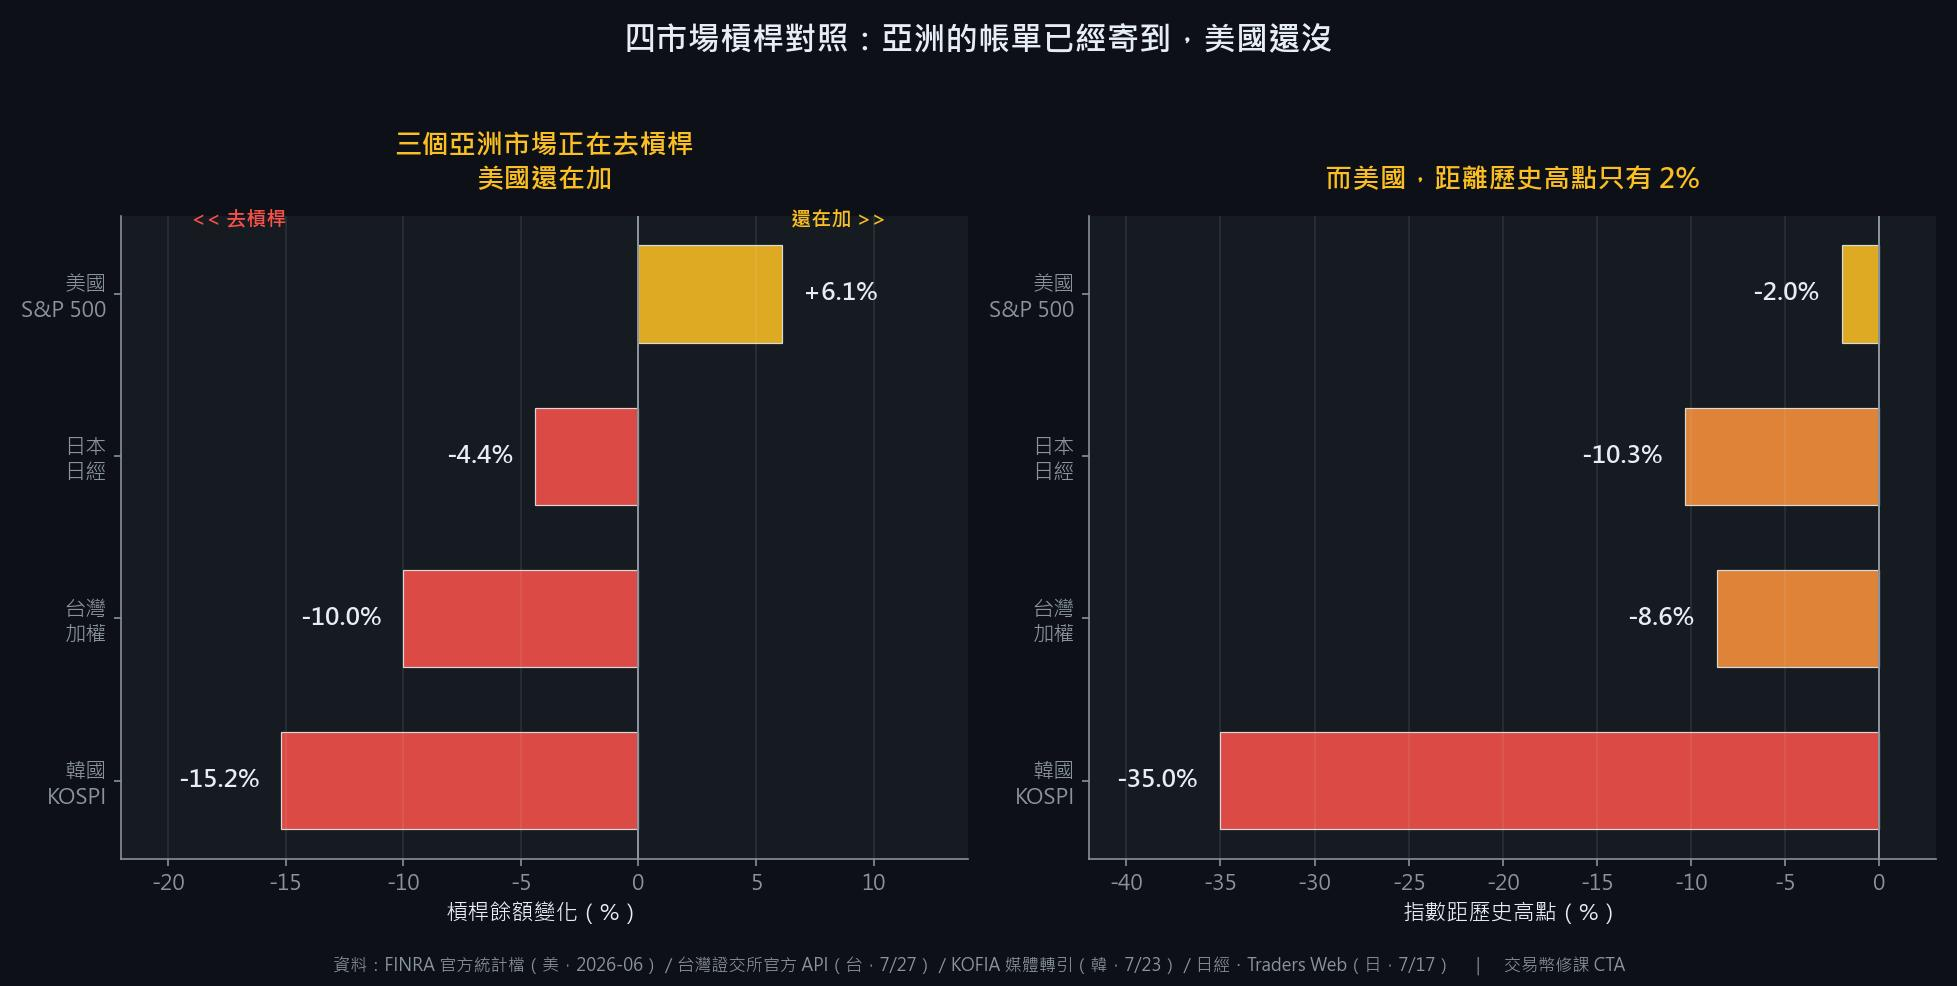
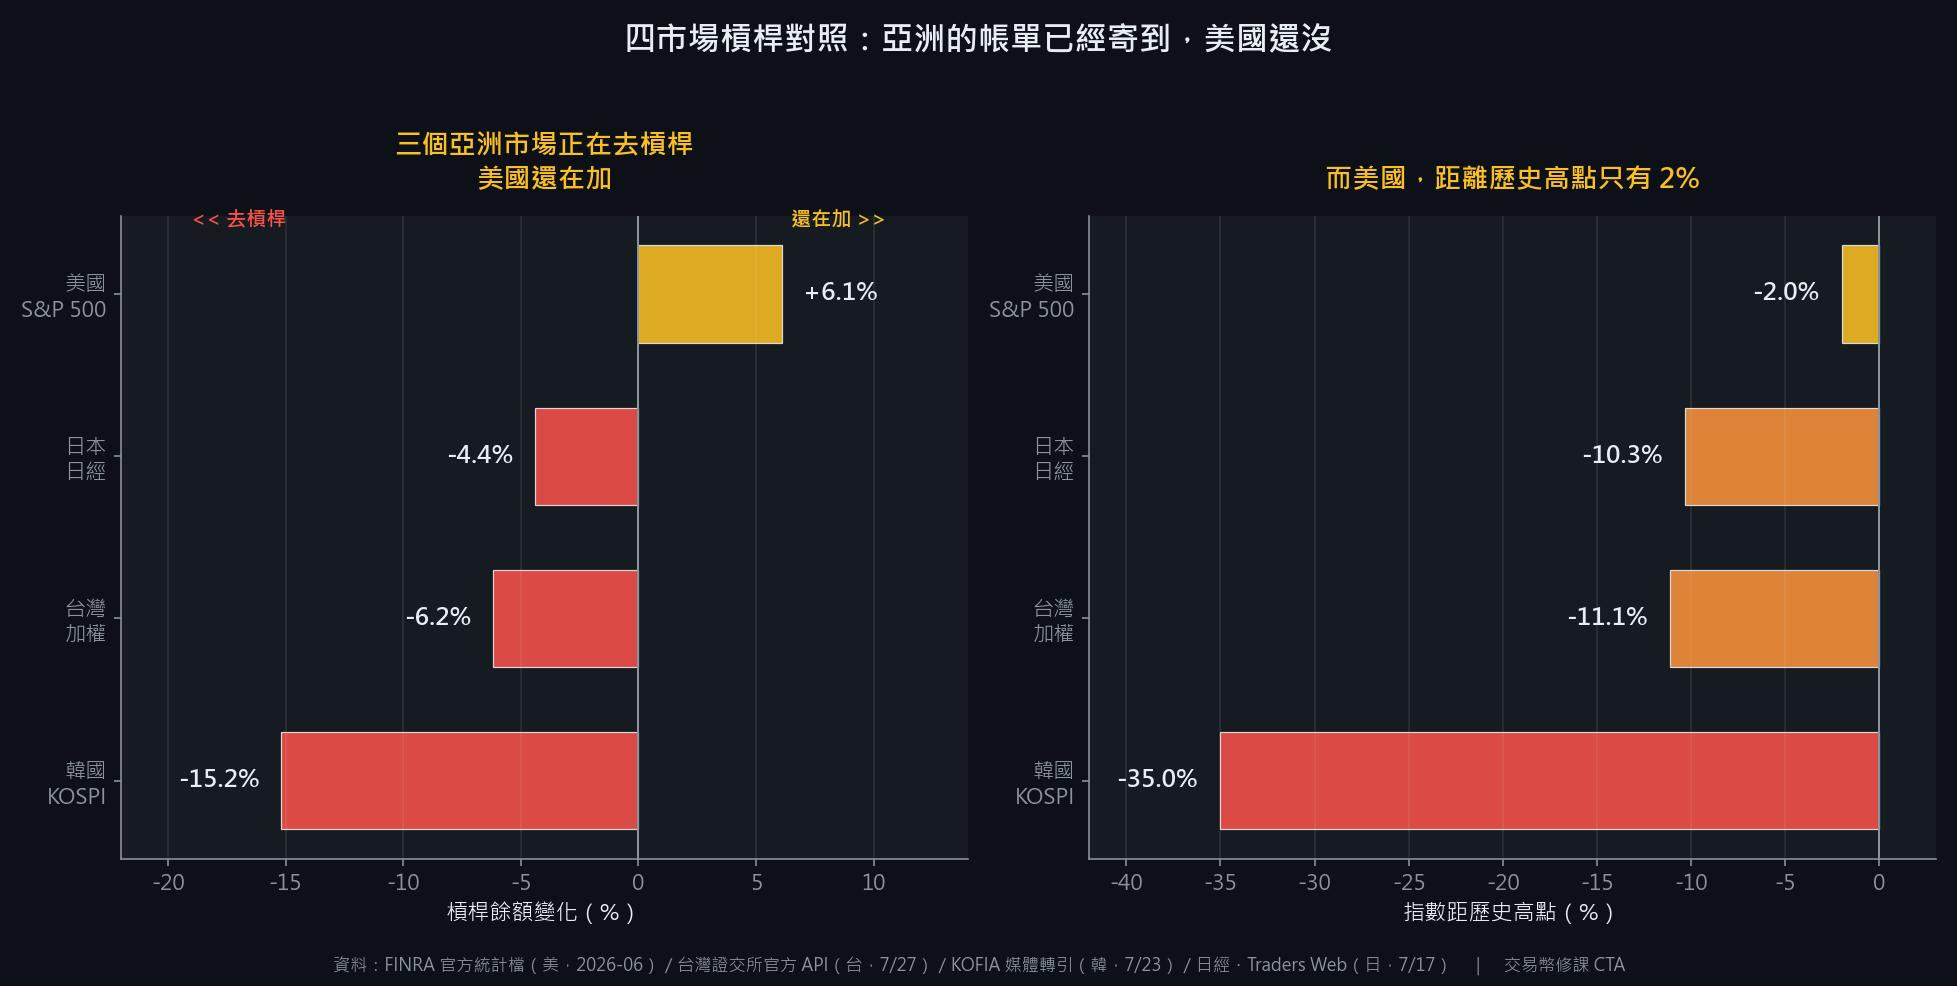
新增台股融資 vs 加權指數圖 + 修正台灣數據為證交所實抓值
★ 新圖 tw-margin-vs-taiex.jpg(自製,含 2026 放大鏡 inset)
資料:直接串接台灣證交所官方 API
  MI_MARGN 融資金額(上市) 128 筆 / FMTQIK 加權指數 2,003 個交易日
  期間 2018-01-02 ~ 2026-07-27

★ 實抓發現(比原稿更強的敘事):
  加權指數 6/22 見頂 47,742
  融資餘額 7/02 才見頂 6,208 億(上市) -> 晚 10 天
  => 指數已經轉頭,散戶還加碼了兩週(教科書級頭部行為)
  7/17 崩 2,953.71 點(-6.5%),維持率降至 148.34%
  7/20 指數探底 42,450 = 距高點 -11.1%
  7/23 融資降至 5,826 億(-6.2%)

★ 數據修正(原稿引用媒體報導,實抓後更精準):
  舊:融資 6/22 創紀錄 8,134.8 億(合計)/6,050.4 億(上市)
  新:6/22 是「首度突破 8,000 億」里程碑,非峰值;
     真正峰值為 7/02 上市 6,208 億(自行驗證)
  四市場表:台灣改為 6,208億(7/02) -> 5,826億(7/23,-6.2%),指數 -11.1%
  four-markets-leverage.jpg 同步更新(-10.0%->-6.2%, -8.6%->-11.1%)

★ 一致性檢查:舊數字 6,050.4/5,686.6/-8.61% 全數清除,
  8,134.8 僅保留一處作為「媒體里程碑 vs 實際峰值」的說明

Changed region(s): [[0.1559, 0.5781, 0.2805, 0.6998], [0.8104, 0.5781, 0.9039, 0.6998]]

diff --git a/blog/four-fuses-leverage-2026h2.html b/blog/four-fuses-leverage-2026h2.html
@@ -384,9 +384,9 @@
         </tr>
         <tr>
           <td>🇹🇼 台灣<br><span class="text-xs text-slate-500">融資餘額（上市）</span></td>
-          <td>兩市合計 8,134.8 億<br><span class="text-xs text-slate-500">6/22</span></td>
-          <td class="danger">上市 5,686.6 億<br><span class="text-xs">（7/27）</span></td>
-          <td class="danger">加權 <strong>−8.61%</strong></td>
+          <td>上市 6,208 億<br><span class="text-xs text-slate-500">7/02</span></td>
+          <td class="danger">上市 5,826 億<br><span class="text-xs">（7/23，−6.2%）</span></td>
+          <td class="danger">加權 <strong>−11.1%</strong><br><span class="text-xs">（7/20 低點）</span></td>
         </tr>
         <tr>
           <td>🇯🇵 日本<br><span class="text-xs text-slate-500">信用買殘</span></td>
@@ -423,7 +423,23 @@
       </p>
     </div>
 
-    <p><strong>台灣這邊</strong>同樣值得警惕：融資餘額在 6/22 創下兩市合計 8,134.8 億的歷史紀錄（其中上市 6,050.4 億），加權指數 6/22 收在歷史最高 47,741.51 點。然後 <strong>7/17 單日崩跌 2,953.71 點（−6.5%）</strong>，融資維持率當日降到 <strong>148.34%</strong>——距離 130% 的追繳線，只剩 18 個百分點。</p>
+    <p><strong>台灣這邊</strong>同樣值得警惕，而且有一個細節特別值得看。我們直接串接台灣證券交易所的官方 API，把 2018 年以來的融資餘額與加權指數拉出來對照，得到這張圖：</p>
+
+    <figure class="my-8 rounded-2xl overflow-hidden border border-slate-800 shadow-2xl shadow-amber-400/10">
+      <img src="assets/tw-margin-vs-taiex.jpg?v=1" alt="台股融資餘額 vs 加權指數 2018-2026:指數 6/22 見頂,融資 7/02 才見頂,散戶在頭部後又加碼 10 天" class="w-full h-auto" loading="lazy">
+      <figcaption class="bg-slate-900 text-slate-500 text-xs text-center py-3 px-4 italic">加權指數 6/22 見頂 47,742，融資餘額卻到 <strong>7/02 才見頂 6,208 億</strong>——中間隔了 10 天（圖中放大鏡的琥珀色區塊）。資料：台灣證券交易所官方 API（MI_MARGN 融資金額・上市／FMTQIK 加權指數）。</figcaption>
+    </figure>
+
+    <p>這張圖真正的重點不在「創新高」三個字，而在<strong>那 10 天的時間差</strong>：</p>
+
+    <ul>
+      <li><strong>加權指數在 6/22 就見頂了</strong>，收在歷史最高的 47,741.51 點。</li>
+      <li><strong>但融資餘額還在往上加。</strong>6/25 來到 6,110 億、<strong>7/02 才見頂於 6,208 億（上市）</strong>。（媒體報導的 6/22「兩市合計 8,134.8 億」是首度突破 8,000 億的里程碑，不是最終高點。）</li>
+      <li>然後 <strong>7/17 單日崩跌 2,953.71 點（−6.5%）</strong>，融資維持率當日降到 <strong>148.34%</strong>——距離 130% 的追繳線只剩 18 個百分點。指數在 7/20 探底 42,450，<strong>距高點 −11.1%</strong>。</li>
+      <li>融資到 7/23 降至 5,826 億，較峰值回落 6.2%——去槓桿正在進行。</li>
+    </ul>
+
+    <p>換句話說：<strong>指數已經轉頭了，散戶還在加碼，而且一加就是兩週。</strong>這不是事後諸葛——這是融資餘額這個數字每天都在公開告訴你的事，只是很少人去看。</p>
 
     <p>更值得注意的是監理面的動作：<strong>金管會在 7/27–28 點名三大風險，其中「四貸同堂」</strong>——房貸、車貸、信貸、股票融資疊在一起炒股——這個詞本身就說明了問題的性質。</p>
 
